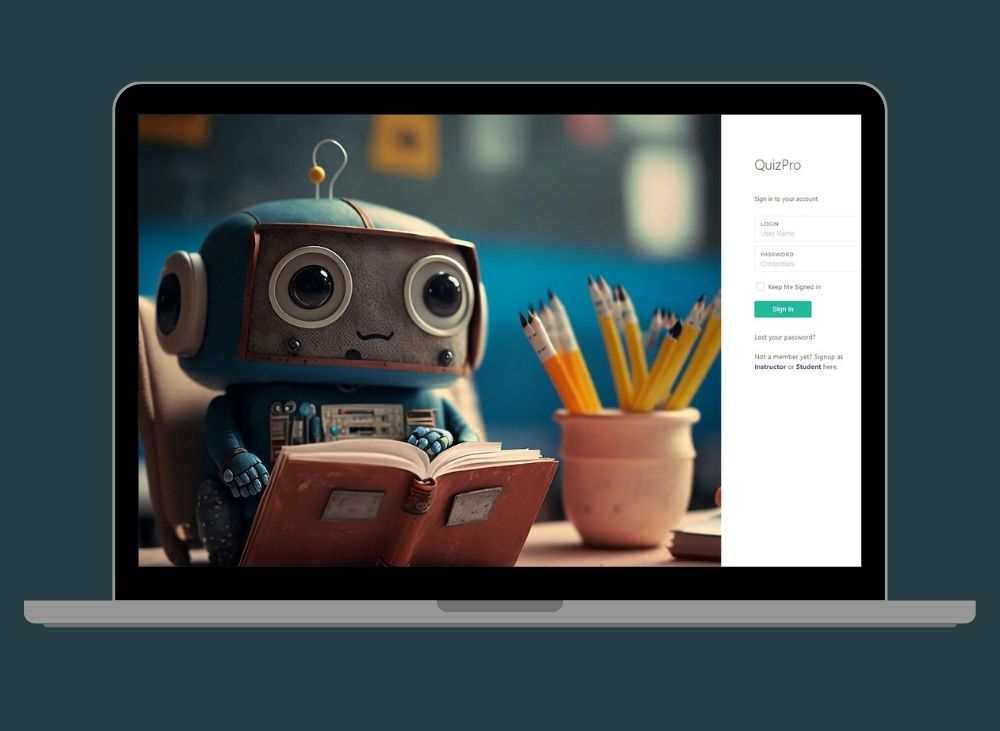
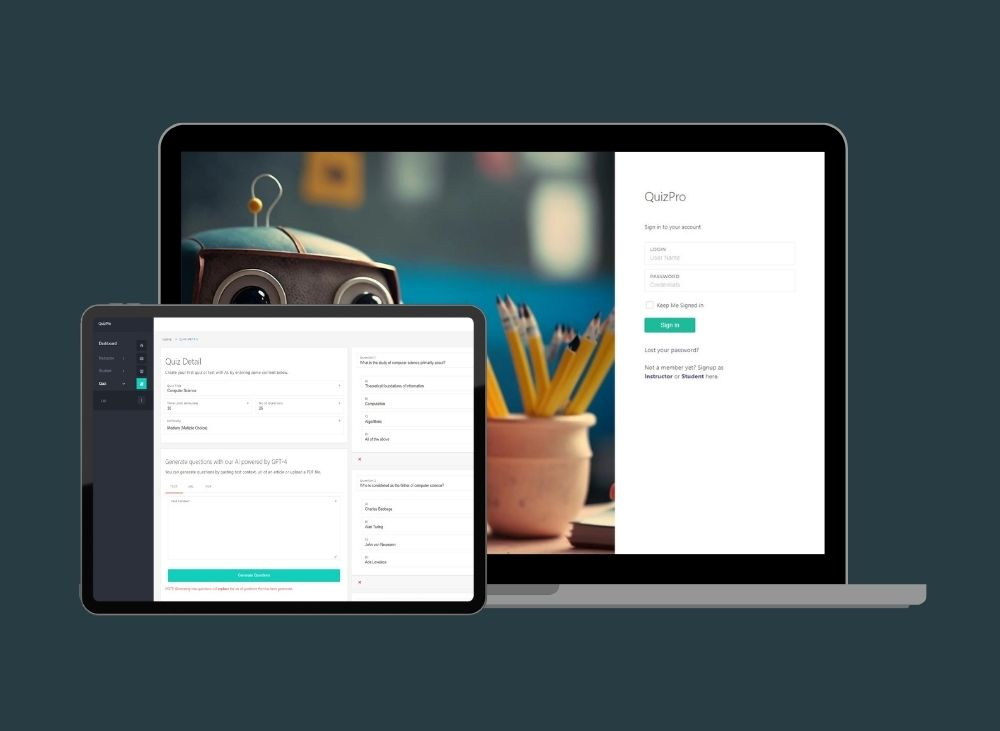
Updaste Portfolio

diff --git a/index.html b/index.html
@@ -491,7 +491,7 @@
                         <div class="project-detail">
                            <div class="dta">
                               <h3>Oyster Detector</h3>
-                              <span>Detect oysters ready to harvest - Mobile App</span>
+                              <span>Detect oysters ready to harvest - Mobile + IoT</span>
                            </div>
                         </div>
                      </a>
@@ -501,8 +501,8 @@
                <!-- Single Work Item Start -->               
                <div class="col-sm-4 col-xs-6 filtr-item" data-category="1">
                   <div class="work-item">
-                     <a href="assets/images/wrk12.jpg" title="QuizPro">
-                        <img class="img-responsive" src="assets/images/wrk12.jpg" alt="QuizPro">
+                     <a href="assets/images/wrk12.jpg?v=1.0" title="QuizPro">
+                        <img class="img-responsive" src="assets/images/wrk12.jpg?v=1.0" alt="QuizPro">
                         <div class="project-detail">
                            <div class="dta">
                               <h3>QuizPro</h3>
@@ -521,7 +521,82 @@
                         <div class="project-detail">
                            <div class="dta">
                               <h3>Number Grabber</h3>
-                              <span>Grab the correct answer - Mobile Game</span>
+                              <span>2d Game made with Unity - Mobile Game</span>
+                           </div>
+                        </div>
+                     </a>
+                  </div>
+               </div>
+               <!-- Single Work Item End -->     
+               <!-- Single Work Item Start -->               
+               <div class="col-sm-4 col-xs-6 filtr-item" data-category="4">
+                  <div class="work-item">
+                     <a href="assets/images/wrk14.jpg" title="Endless Runner">
+                        <img class="img-responsive" src="assets/images/wrk14.jpg" alt="Endless Runner">
+                        <div class="project-detail">
+                           <div class="dta">
+                              <h3>Endless Runner</h3>
+                              <span>3d Game made with Unity - Mobile Game</span>
+                           </div>
+                        </div>
+                     </a>
+                  </div>
+               </div>
+               <!-- Single Work Item End -->        
+               <!-- Single Work Item Start -->               
+               <div class="col-sm-4 col-xs-6 filtr-item" data-category="3">
+                  <div class="work-item">
+                     <a href="assets/images/wrk15.jpg" title="Herbs Identifier">
+                        <img class="img-responsive" src="assets/images/wrk15.jpg" alt="Herbs Identifier">
+                        <div class="project-detail">
+                           <div class="dta">
+                              <h3>Herbs Identifier</h3>
+                              <span>Plant-identification using camera & Plant API</span>
+                           </div>
+                        </div>
+                     </a>
+                  </div>
+               </div>
+               <!-- Single Work Item End -->  
+               <!-- Single Work Item Start -->               
+               <div class="col-sm-4 col-xs-6 filtr-item" data-category="3">
+                  <div class="work-item">
+                     <a href="assets/images/wrk16.jpg" title="Janibot">
+                        <img class="img-responsive" src="assets/images/wrk16.jpg" alt="Janibot">
+                        <div class="project-detail">
+                           <div class="dta">
+                              <h3>Janibot</h3>
+                              <span>Vacuum robot controlled via Wi-Fi - Mobile + IoT</span>
+                           </div>
+                        </div>
+                     </a>
+                  </div>
+               </div>
+               <!-- Single Work Item End -->     
+               <!-- Single Work Item Start -->               
+               <div class="col-sm-4 col-xs-6 filtr-item" data-category="1">
+                  <div class="work-item">
+                     <a href="assets/images/wrk17.jpg" title="Dental Clinic">
+                        <img class="img-responsive" src="assets/images/wrk17.jpg" alt="Dental Clinic">
+                        <div class="project-detail">
+                           <div class="dta">
+                              <h3>Dental Clinic</h3>
+                              <span>Chatbot for booking and customer management</span>
+                           </div>
+                        </div>
+                     </a>
+                  </div>
+               </div>
+               <!-- Single Work Item End -->          
+               <!-- Single Work Item Start -->               
+               <div class="col-sm-4 col-xs-6 filtr-item" data-category="1">
+                  <div class="work-item">
+                     <a href="assets/images/wrk18.jpg" title="TourGuide App">
+                        <img class="img-responsive" src="assets/images/wrk18.jpg" alt="TourGuide App">
+                        <div class="project-detail">
+                           <div class="dta">
+                              <h3>TourGuide App</h3>
+                              <span>Web App to book a Tour Guide</span>
                            </div>
                         </div>
                      </a>
